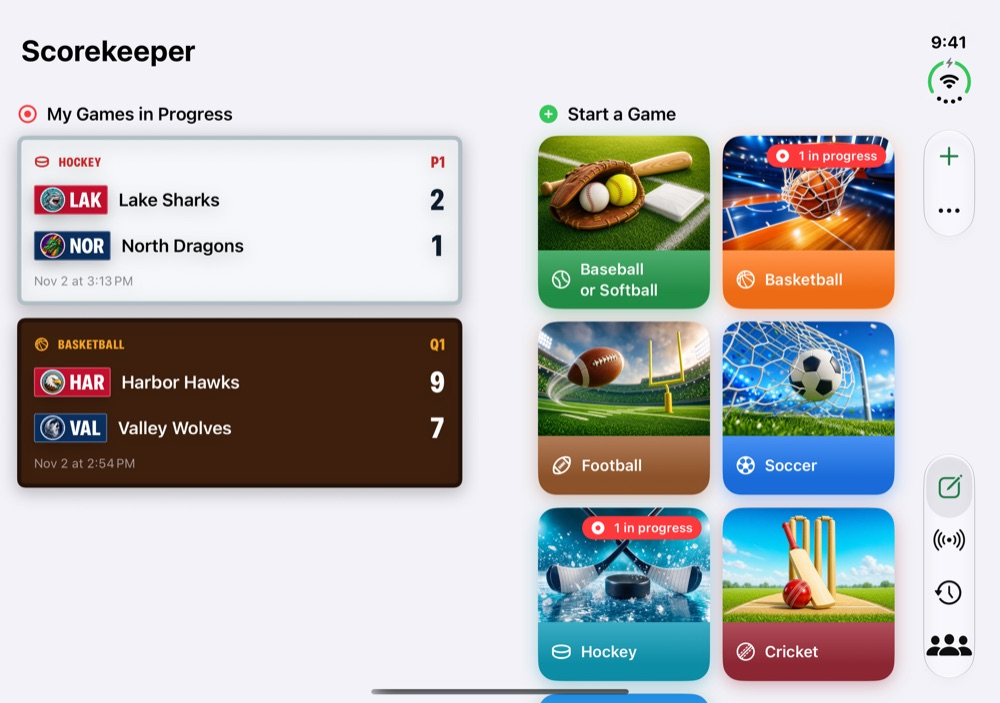
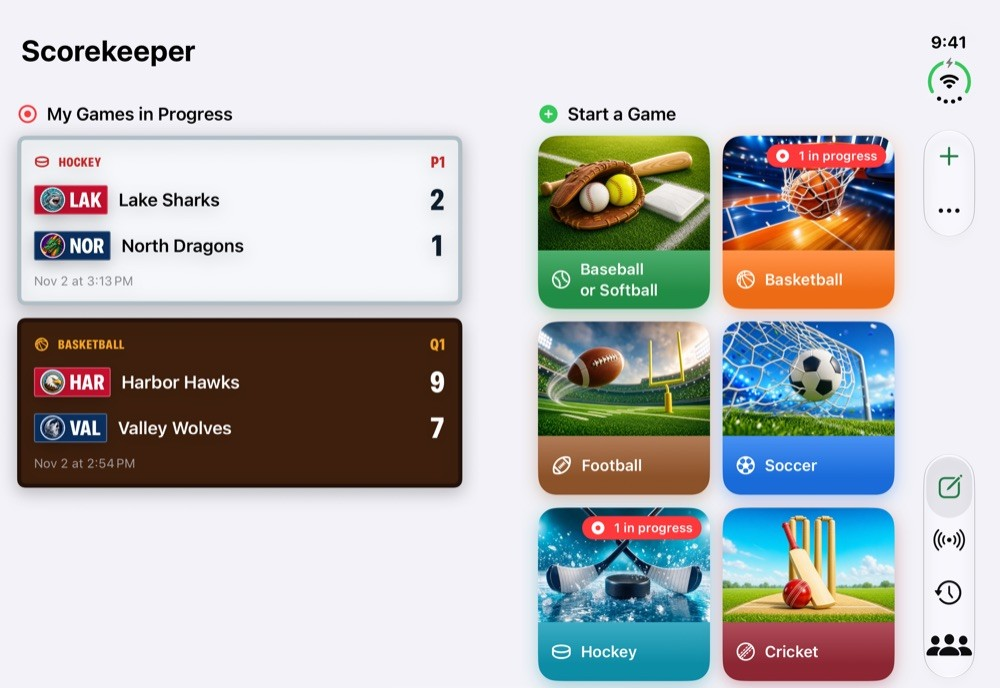
Update the website from f2f546b

diff --git a/scorekeeper/index.html b/scorekeeper/index.html
@@ -1,4 +1,11 @@
 <!doctype html>
+<!--
+  index.html
+  Docs, DuoApoOldSchoolGames
+
+  Created by Jim Murff on 10/06/26.
+  Copyright © 2026 Jim Murff, DeeDogDevelopment. All rights reserved.
+-->
 <html lang="en">
 <head>
 <meta charset="utf-8">
@@ -36,7 +43,7 @@
   <h2>Open it up</h2>
   <p>On iPhone Duo, open the phone and the game spreads across both halves: the box score and plays on one, the field and the scoring buttons on the other.</p>
   <ul class="shots mixed" tabindex="0" aria-label="Screenshots on iPhone Duo, open">
-    <li><img src="../assets/scorekeeper/duo-inner-home.jpg" alt="The Score tab with iPhone Duo open: games in progress on one half, and the sport cards on the other" width="1000" height="703" loading="lazy"></li>
+    <li><img src="../assets/scorekeeper/duo-inner-home.jpg" alt="The Score tab with iPhone Duo open: games in progress on one half, and the sport cards on the other" width="1000" height="688" loading="lazy"></li>
     <li><img src="../assets/scorekeeper/duo-inner.jpg" alt="A basketball game with iPhone Duo open: team stats on one half, and the scoreboard, court and scoring buttons on the other" width="1000" height="703" loading="lazy"></li>
     <li><img src="../assets/scorekeeper/duo-inner-hockey.jpg" alt="A hockey game with iPhone Duo open: the line score and team stats on one half, and the scoreboard, rink and scoring buttons on the other" width="1000" height="703" loading="lazy"></li>
   </ul>

diff --git a/assets/site.css b/assets/site.css
@@ -1,3 +1,11 @@
+/*
+ *  site.css
+ *  Docs, DuoApoOldSchoolGames
+ *
+ *  Created by Jim Murff on 10/06/26.
+ *  Copyright © 2026 Jim Murff, DeeDogDevelopment. All rights reserved.
+ */
+
 :root {
   --brand: #c4005f; --on-brand: #ffffff; --bg: #fbf8f4; --fg: #1f1a1d; --muted: #5c5358; --link: #a80052;
   --rule: #e4dcd5; --card: #ffffff; --shadow: 0 1px 2px rgb(40 20 30 / .12), 0 8px 24px rgb(40 20 30 / .08);

diff --git a/game-closet/privacy.html b/game-closet/privacy.html
@@ -1,4 +1,11 @@
 <!doctype html>
+<!--
+  privacy.html
+  Docs, DuoApoOldSchoolGames
+
+  Created by Jim Murff on 10/06/26.
+  Copyright © 2026 Jim Murff, DeeDogDevelopment. All rights reserved.
+-->
 <html lang="en">
 <head>
 <meta charset="utf-8">

diff --git a/game-closet/support.html b/game-closet/support.html
@@ -1,4 +1,11 @@
 <!doctype html>
+<!--
+  support.html
+  Docs, DuoApoOldSchoolGames
+
+  Created by Jim Murff on 10/06/26.
+  Copyright © 2026 Jim Murff, DeeDogDevelopment. All rights reserved.
+-->
 <html lang="en">
 <head>
 <meta charset="utf-8">

diff --git a/forks/index.html b/forks/index.html
@@ -1,4 +1,11 @@
 <!doctype html>
+<!--
+  index.html
+  Docs, DuoApoOldSchoolGames
+
+  Created by Jim Murff on 10/06/26.
+  Copyright © 2026 Jim Murff, DeeDogDevelopment. All rights reserved.
+-->
 <html lang="en">
 <head>
 <meta charset="utf-8">

diff --git a/game-closet/index.html b/game-closet/index.html
@@ -1,4 +1,11 @@
 <!doctype html>
+<!--
+  index.html
+  Docs, DuoApoOldSchoolGames
+
+  Created by Jim Murff on 10/06/26.
+  Copyright © 2026 Jim Murff, DeeDogDevelopment. All rights reserved.
+-->
 <html lang="en">
 <head>
 <meta charset="utf-8">

diff --git a/index.html b/index.html
@@ -1,4 +1,11 @@
 <!doctype html>
+<!--
+  index.html
+  Docs, DuoApoOldSchoolGames
+
+  Created by Jim Murff on 10/06/26.
+  Copyright © 2026 Jim Murff, DeeDogDevelopment. All rights reserved.
+-->
 <html lang="en">
 <head>
 <meta charset="utf-8">

diff --git a/oven-time/index.html b/oven-time/index.html
@@ -1,4 +1,11 @@
 <!doctype html>
+<!--
+  index.html
+  Docs, DuoApoOldSchoolGames
+
+  Created by Jim Murff on 10/06/26.
+  Copyright © 2026 Jim Murff, DeeDogDevelopment. All rights reserved.
+-->
 <html lang="en">
 <head>
 <meta charset="utf-8">

diff --git a/rivalry/index.html b/rivalry/index.html
@@ -1,4 +1,11 @@
 <!doctype html>
+<!--
+  index.html
+  Docs, DuoApoOldSchoolGames
+
+  Created by Jim Murff on 10/06/26.
+  Copyright © 2026 Jim Murff, DeeDogDevelopment. All rights reserved.
+-->
 <html lang="en">
 <head>
 <meta charset="utf-8">

diff --git a/tallyup-golf/index.html b/tallyup-golf/index.html
@@ -1,4 +1,11 @@
 <!doctype html>
+<!--
+  index.html
+  Docs, DuoApoOldSchoolGames
+
+  Created by Jim Murff on 10/06/26.
+  Copyright © 2026 Jim Murff, DeeDogDevelopment. All rights reserved.
+-->
 <html lang="en">
 <head>
 <meta charset="utf-8">

diff --git a/yesterday/index.html b/yesterday/index.html
@@ -1,4 +1,11 @@
 <!doctype html>
+<!--
+  index.html
+  Docs, DuoApoOldSchoolGames
+
+  Created by Jim Murff on 10/06/26.
+  Copyright © 2026 Jim Murff, DeeDogDevelopment. All rights reserved.
+-->
 <html lang="en">
 <head>
 <meta charset="utf-8">
